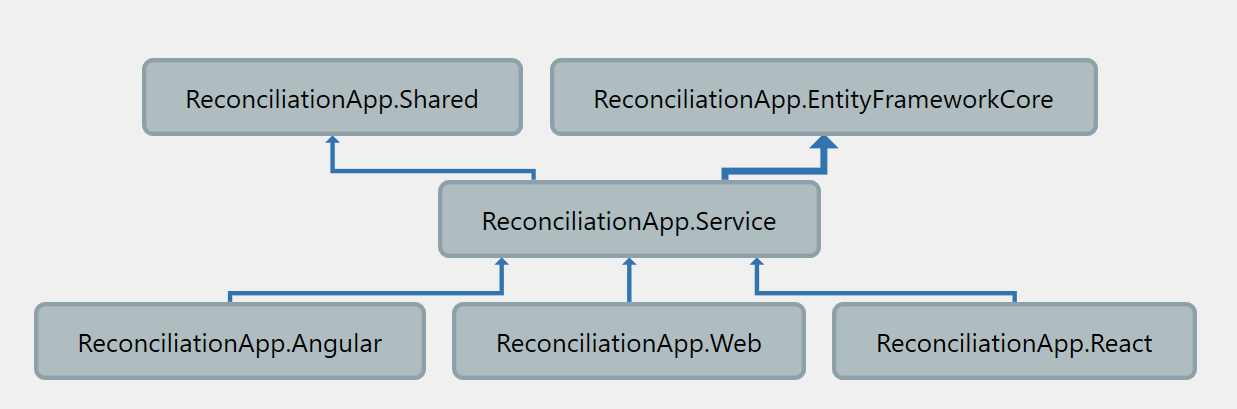
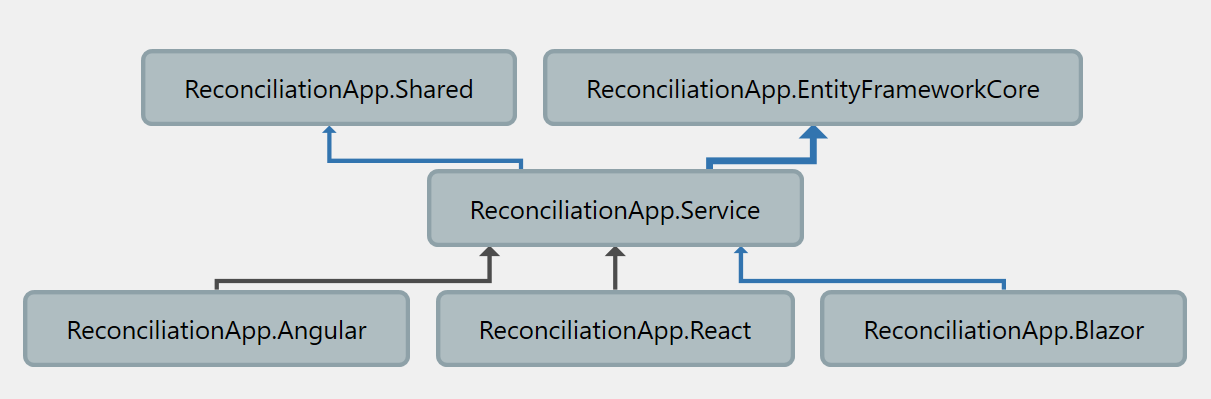
ReconciliationApp.Web renamed to ReconciliationApp.Blazor

Changed region(s): [[0.0, 0.6015, 1.0, 0.9323], [0.0917, 0.1203, 0.9166, 0.4812], [0.3666, 0.5113, 0.6416, 0.5714]]

diff --git a/Reconciliation/Reconciliation.Angular/ClientApp/src/app/home/home.component.html b/Reconciliation/Reconciliation.Angular/ClientApp/src/app/home/home.component.html
@@ -1,5 +1,7 @@
 <p *ngIf="!grid" class="text-center"><em>Loading...</em></p>
 
+<h6 class="text-center">We are in Angular App</h6>
+
 <table class='table table-striped table-hover table-bordered' aria-labelledby="tableLabel" *ngIf="grid">
   <thead>
     <tr>

diff --git a/Reconciliation/Reconciliation.Web/Startup.cs b/Reconciliation/Reconciliation.Web/Startup.cs
@@ -1,5 +1,3 @@
-using System.Reflection;
-using AutoMapper;
 using Blazored.Modal;
 using Microsoft.AspNetCore.Builder;
 using Microsoft.AspNetCore.Hosting;
@@ -7,14 +5,14 @@ using Microsoft.EntityFrameworkCore;
 using Microsoft.Extensions.Configuration;
 using Microsoft.Extensions.DependencyInjection;
 using Microsoft.Extensions.Hosting;
+using ReconciliationApp.Blazor.Data;
 using ReconciliationApp.EntityFrameworkCore;
 using ReconciliationApp.Service.IncomeOrExpenses;
 using ReconciliationApp.Service.IncomeOrExpenseTypes;
 using ReconciliationApp.Service.Reconciliations;
-using ReconciliationApp.Web.Data;
 using Sotsera.Blazor.Toaster.Core.Models;
 
-namespace ReconciliationApp.Web
+namespace ReconciliationApp.Blazor
 {
     public class Startup
     {

diff --git a/Reconciliation/Reconciliation.Web/Data/ReconciliationService.cs b/Reconciliation/Reconciliation.Web/Data/ReconciliationService.cs
@@ -1,14 +1,10 @@
-using System;
 using System.Collections.Generic;
-using System.Linq;
 using System.Threading.Tasks;
-using ReconciliationApp.EntityFrameworkCore.Reconciliations;
 using ReconciliationApp.Service.Reconciliations;
 using ReconciliationApp.Service.Reconciliations.Dtos;
 using ReconciliationApp.Shared.Dtos;
-using ReconciliationApp.Shared.Extensions;
 
-namespace ReconciliationApp.Web.Data
+namespace ReconciliationApp.Blazor.Data
 {
     public class ReconciliationService: EndpointServiceBase
     {

diff --git a/Reconciliation/Reconciliation.Web/FormTags/InputSelectNumber.cs b/Reconciliation/Reconciliation.Web/FormTags/InputSelectNumber.cs
@@ -1,10 +1,6 @@
-using System;
-using System.Collections.Generic;
-using System.Linq;
-using System.Threading.Tasks;
-using Microsoft.AspNetCore.Components.Forms;
+using Microsoft.AspNetCore.Components.Forms;
 
-namespace ReconciliationApp.Web.FormTags
+namespace ReconciliationApp.Blazor.FormTags
 {
     public class InputSelectNumber<T> : InputSelect<T>
     {

diff --git a/Reconciliation/Reconciliation.Web/Data/IncomeOrExpenseService.cs b/Reconciliation/Reconciliation.Web/Data/IncomeOrExpenseService.cs
@@ -1,11 +1,8 @@
-using System;
-using System.Collections.Generic;
-using System.Linq;
 using System.Threading.Tasks;
 using ReconciliationApp.Service.IncomeOrExpenses;
 using ReconciliationApp.Service.IncomeOrExpenses.Dtos;
 
-namespace ReconciliationApp.Web.Data
+namespace ReconciliationApp.Blazor.Data
 {
     public class IncomeOrExpenseService
     {

diff --git a/Reconciliation/Reconciliation.Web/Data/IncomeOrExpenseTypeService.cs b/Reconciliation/Reconciliation.Web/Data/IncomeOrExpenseTypeService.cs
@@ -2,7 +2,7 @@ using System.Threading.Tasks;
 using ReconciliationApp.Service.IncomeOrExpenseTypes;
 using ReconciliationApp.Service.IncomeOrExpenseTypes.Dtos;
 
-namespace ReconciliationApp.Web.Data
+namespace ReconciliationApp.Blazor.Data
 {
     public class IncomeOrExpenseTypeService
     {

diff --git a/Reconciliation/Reconciliation.Web/Program.cs b/Reconciliation/Reconciliation.Web/Program.cs
@@ -4,7 +4,7 @@ using Microsoft.Extensions.DependencyInjection;
 using Microsoft.Extensions.Hosting;
 using ReconciliationApp.EntityFrameworkCore.Seeds;
 
-namespace ReconciliationApp.Web
+namespace ReconciliationApp.Blazor
 {
     public class Program
     {

diff --git a/Reconciliation/Reconciliation.Web/Data/EndpointServiceBase.cs b/Reconciliation/Reconciliation.Web/Data/EndpointServiceBase.cs
@@ -1,7 +1,7 @@
 using AutoMapper;
 using ReconciliationApp.Service.Mappers;
 
-namespace ReconciliationApp.Web.Data
+namespace ReconciliationApp.Blazor.Data
 {
     public abstract class EndpointServiceBase
     {

diff --git a/Reconciliation/Reconciliation.Web/Data/WeatherForecastService.cs b/Reconciliation/Reconciliation.Web/Data/WeatherForecastService.cs
@@ -2,7 +2,7 @@ using System;
 using System.Linq;
 using System.Threading.Tasks;
 
-namespace ReconciliationApp.Web.Data
+namespace ReconciliationApp.Blazor.Data
 {
     public class WeatherForecastService
     {

diff --git a/Reconciliation/Reconciliation.Web/Data/WeatherForecast.cs b/Reconciliation/Reconciliation.Web/Data/WeatherForecast.cs
@@ -1,6 +1,6 @@
 using System;
 
-namespace ReconciliationApp.Web.Data
+namespace ReconciliationApp.Blazor.Data
 {
     public class WeatherForecast
     {
